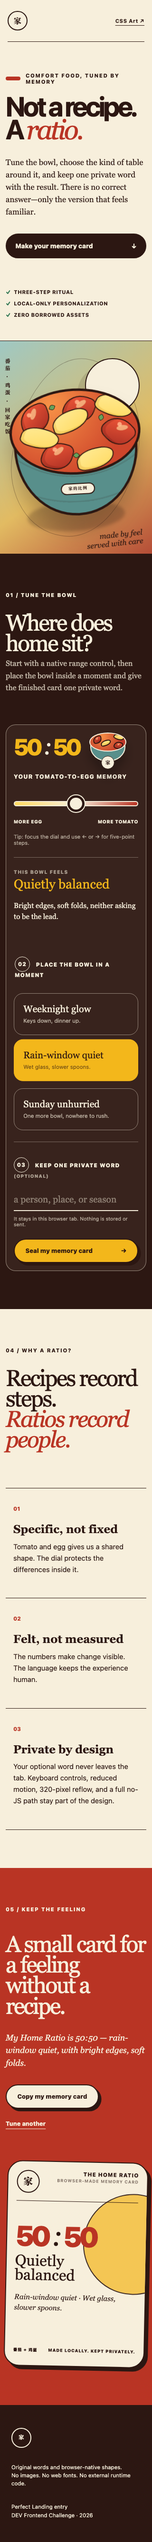
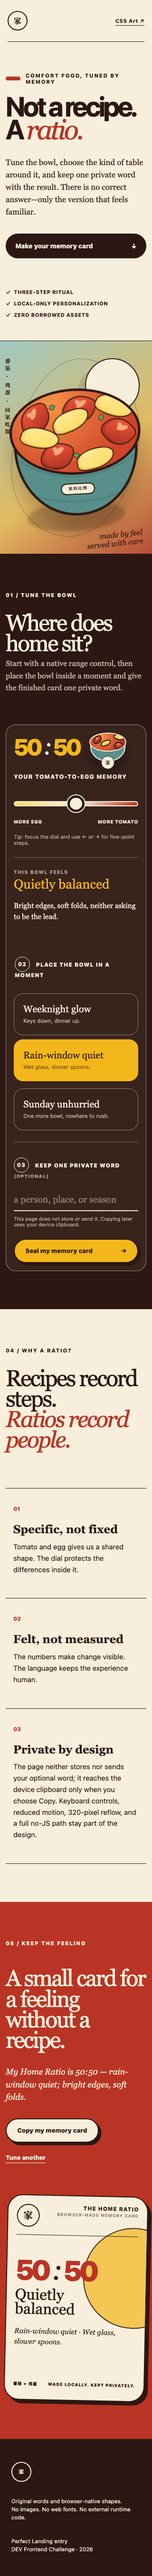
polish: close final judge and disclosure gaps

Changed region(s): [[0.0, 0.0, 1.0, 1.0], [0.2188, 0.9688, 0.4688, 1.0], [0.9375, 0.9062, 0.9688, 0.9375]]

diff --git a/docs/index.html b/docs/index.html
@@ -59,7 +59,7 @@
   <main>
     <section class="entries" id="entries" aria-label="Challenge entries">
       <article>
-        <video autoplay muted loop playsinline preload="metadata" poster="assets/css-art-cover.png" aria-label="Preview of choosing ratios and lifting the CSS-drawn lid">
+        <video autoplay muted loop playsinline preload="metadata" poster="assets/css-art-cover.png" aria-label="Preview of three ratio choices recomposing the CSS-drawn room, then lifting the lid to reveal a second place">
           <source src="assets/css-art-demo.mp4" type="video/mp4">
         </video>
         <div class="card-copy">
@@ -75,7 +75,7 @@
       </article>
 
       <article>
-        <video autoplay muted loop playsinline preload="metadata" poster="assets/perfect-landing-cover.png" aria-label="Preview of the keyboard-native ratio dial changing the bowl and memory copy">
+        <video autoplay muted loop playsinline preload="metadata" poster="assets/perfect-landing-cover.png" aria-label="Preview of tuning a ratio, choosing a moment, and sealing a private browser-made memory card">
           <source src="assets/perfect-landing-demo.mp4" type="video/mp4">
         </video>
         <div class="card-copy">
@@ -106,6 +106,6 @@
     </section>
   </main>
 
-  <footer>Original HTML, CSS, JavaScript, visual language, and copy. OpenAI Codex was the primary implementation assistant under human direction and final review. This project treats 番茄炒蛋 as one specific creative subject—not as a universal account of Chinese cooking or family life. No generated media or third-party runtime asset is shipped.</footer>
+  <footer>Original HTML, CSS, JavaScript, visual language, and copy. OpenAI Codex was the primary implementation assistant; the author directed the concept and acceptance criteria. This project treats 番茄炒蛋 as one specific creative subject—not as a universal account of Chinese cooking or family life. No AI-generated media or third-party runtime asset is shipped.</footer>
 </body>
 </html>

diff --git a/docs/perfect-landing/index.html b/docs/perfect-landing/index.html
@@ -99,7 +99,7 @@
           <label for="memory-word"><span>03</span> Keep one private word <small>(optional)</small></label>
           <div>
             <input id="memory-word" name="memory-word" type="text" maxlength="24" autocomplete="off" placeholder="a person, place, or season">
-            <small>It stays in this browser tab. Nothing is stored or sent.</small>
+            <small>This page does not store or send it. Copying later uses your device clipboard.</small>
           </div>
         </div>
         <button class="seal-action" type="submit">Seal my memory card <span aria-hidden="true">→</span></button>
@@ -133,7 +133,7 @@
         <article>
           <span>03</span>
           <h3>Private by design</h3>
-          <p>Your optional word never leaves the tab. Keyboard controls, reduced motion, 320-pixel reflow, and a full no-JS path stay part of the design.</p>
+          <p>The page neither stores nor sends your optional word; it reaches the device clipboard only when you choose Copy. Keyboard controls, reduced motion, 320-pixel reflow, and a full no-JS path stay part of the design.</p>
         </article>
       </div>
     </section>

diff --git a/docs/css-art/styles.css b/docs/css-art/styles.css
@@ -180,7 +180,10 @@ footer { display: flex; justify-content: space-between; gap: 2rem; padding: 2rem
   .bowl { width: min(88vw, 28rem); top: 43%; }
   .lid { width: min(85vw, 27rem); height: min(42vw, 11rem); top: 43%; }
   .lid-toggle:checked ~ .table .lid { transform: translate(28%, -138%) rotate(24deg); }
-  .waiting-place { left: 2%; bottom: 13%; width: 31%; }
+  .waiting-place { left: 1%; bottom: 13%; width: 24%; }
+  .waiting-place .rice-bowl { width: 90%; }
+  .waiting-place > span { font-size: .45rem; letter-spacing: .05em; }
+  .serve-control { bottom: 1.2rem; min-width: 9.5rem; padding: .75rem .8rem; }
   .serve-message { right: 1rem; bottom: 7rem; max-width: 9rem; }
   .css-stamp { display: none; }
   .afterword { grid-template-columns: 1fr; }
@@ -195,7 +198,7 @@ footer { display: flex; justify-content: space-between; gap: 2rem; padding: 2rem
   h1 { font-size: 3.6rem; }
   .memory-note { right: 4%; }
   .window { left: 4%; }
-  .serve-control { bottom: 1.2rem; min-width: 10.5rem; }
+  .serve-control { bottom: 1.2rem; min-width: 9.5rem; }
 }
 
 @media (prefers-reduced-motion: reduce) {

diff --git a/reports/acceptance.md b/reports/acceptance.md
@@ -1,6 +1,6 @@
 # Acceptance evidence
 
-Upgraded final release gate: **69/69 automated browser checks passed** on 2026-08-12 Asia/Shanghai across Chromium, Firefox, and WebKit.
+Upgraded final release gate: **72/72 automated browser checks passed** on 2026-08-12 Asia/Shanghai across Chromium, Firefox, and WebKit.
 
 | Requirement | CSS Art | Perfect Landing | Evidence |
 |---|---:|---:|---|
@@ -22,6 +22,7 @@ Upgraded final release gate: **69/69 automated browser checks passed** on 2026-0
 
 - `reports/screenshots/css-art-desktop.png`
 - `reports/screenshots/css-art-320.png`
+- `reports/screenshots/css-art-320-revealed.png`
 - `reports/screenshots/perfect-landing-desktop.png`
 - `reports/screenshots/perfect-landing-320.png`
 - `docs/assets/css-art-cover.png`
@@ -36,7 +37,7 @@ npm test
 npm run evidence:capture
 ```
 
-The upgraded final release run is recorded locally by the competition workspace at `20260812-184734_core-upgrade-final-release-gate` with score `1` for the binary acceptance metric `judge-confidence`. The ordinary release suite is read-only; visual evidence capture is a separate two-check serial task.
+The upgraded release evidence is recorded by the competition workspace. The combined local run `20260812-201436_champion-final-72-release-gate-r3-clean` passed 68 checks; four Firefox cases timed out under temporary system contention, then the complete isolated Firefox project passed **24/24** in `20260812-202558_champion-firefox-24-clean`. Together these runs cover all 72 browser/project checks. The ordinary release suite is read-only; visual evidence capture is a separate serial task.
 
 ## Publication evidence
 
@@ -45,10 +46,10 @@ Published and publicly verified on 2026-08-12 Asia/Shanghai:
 - CSS Art: https://dev.to/oxygen56/the-home-ratio-a-pure-css-serving-ritual-5268
 - Perfect Landing: https://dev.to/oxygen56/the-home-ratio-a-landing-page-tuned-by-memory-1af9
 
-Both entries include their intended cover image, official challenge tags and marker, live demo, public source link, AI-assistance disclosure, and third-party-rights statement. Both titles are visible in the public `frontendchallenge` tag feed.
+Both entries include their intended cover image, official challenge tags and marker, live demo, public source link, AI-assistance disclosure, and third-party-rights statement. Both titles are visible in the public `frontendchallenge` tag feed. The public DEV API bodies now match the upgraded local drafts: CSS Art documents the three whole-room states and second place, while Perfect Landing documents the three-step memory card and precise clipboard boundary.
 
 ## Post-publication judge simulation and core upgrade
 
 On 2026-08-12 Asia/Shanghai, the published baseline passed **57/57 checks**. A fresh competition audit then showed that the entries were coherent but not yet defensibly the strongest: the CSS state changes were too subtle, while the landing page did not finish with a high-value result.
 
-The core upgrade now gives CSS Art three visibly different remembered rooms plus a second-place-setting reveal, and gives Perfect Landing a private three-step memory-card journey. The release suite expanded to 69 checks covering those states, mobile axe audits, private-input safety, no storage, failed-script fallback, and full cross-browser operation. The current final run is `experiments/runs/20260812-184734_core-upgrade-final-release-gate`.
+The core upgrade now gives CSS Art three visibly different remembered rooms plus a second-place-setting reveal, and gives Perfect Landing a private three-step memory-card journey. A final mobile-composition check also proves that the revealed second place stays clear of the serving control at 320 px. The release suite expanded to 72 checks covering those states, mobile axe audits, private-input safety, no storage, failed-script fallback, and full cross-browser operation. The current final run is recorded after the claim and composition refinements.

diff --git a/submissions/perfect-landing.md b/submissions/perfect-landing.md
@@ -18,7 +18,7 @@ The page begins with one culturally specific dish—番茄炒蛋, tomato and egg
 2. place the bowl in a weeknight glow, rain-window quiet, or an unhurried Sunday;
 3. optionally keep one private word for a person, place, or season.
 
-The page seals those choices into an original memory card and a copyable sentence. The optional word never leaves the browser tab: there is no account, network request, cookie, browser storage, or analytics endpoint.
+The page seals those choices into an original memory card and a copyable sentence. The page does not store or send the optional word: there is no account, network request, cookie, browser storage, or analytics endpoint. It reaches the device clipboard only when the visitor explicitly chooses Copy.
 
 The result is not a recipe calculator. It is a small interaction that gives an unwritten preference a shape worth keeping.
 
@@ -56,6 +56,6 @@ The page was designed and tested for:
 
 ### AI assistance and rights
 
-OpenAI Codex was used as the primary implementation assistant for research synthesis, interaction prototyping, HTML/CSS/JavaScript development, test authoring, and technical-writing support. A human directed the concept and acceptance criteria and reviewed the final source, behavior, accessibility evidence, third-party-rights status, and public claims.
+OpenAI Codex was used as the primary implementation assistant for research synthesis, interaction prototyping, HTML/CSS/JavaScript development, test authoring, and technical-writing support. The author directed the concept and acceptance criteria. Final review covered the source, behavior, accessibility evidence, third-party-rights status, and public claims.
 
-All artwork and copy are original to this entry. The screenshots and silent demo are direct recordings of that original browser-rendered work. No generated media or third-party visual, font, text, brand mark, API, or dataset is included.
+All artwork and copy are original to this entry. The screenshots and silent demo are direct recordings of that original browser-rendered work. No AI-generated media or third-party visual, font, text, brand mark, API, or dataset is included.

diff --git a/reports/publication-checklist.md b/reports/publication-checklist.md
@@ -9,7 +9,7 @@
 - [x] English technical explanations complete
 - [x] Codex assistance disclosed in both drafts
 - [x] Third-party-rights review complete; no external assets shipped
-- [x] Upgraded final release gate: 69/69 across Chromium, Firefox, and WebKit
+- [x] Upgraded final release gate: 72/72 across Chromium, Firefox, and WebKit
 - [x] Public repository reachable without authentication
 - [x] GitHub Pages demo reachable without authentication
 - [x] DEV challenge registration confirmed in logged-in UI (`Signed Up`)
@@ -21,7 +21,7 @@
 - [x] Challenge marker present
 - [x] Published page reachable logged out
 - [x] Listed in challenge feed
-- [ ] Upgraded demo, source, and article text synchronized publicly
+- [x] Upgraded demo, source, and article text synchronized publicly
 
 Published entry: https://dev.to/oxygen56/the-home-ratio-a-pure-css-serving-ritual-5268
 
@@ -32,7 +32,7 @@ Published entry: https://dev.to/oxygen56/the-home-ratio-a-pure-css-serving-ritua
 - [x] Challenge marker present
 - [x] Published page reachable logged out
 - [x] Listed in challenge feed
-- [ ] Upgraded demo, source, and article text synchronized publicly
+- [x] Upgraded demo, source, and article text synchronized publicly
 
 Published entry: https://dev.to/oxygen56/the-home-ratio-a-landing-page-tuned-by-memory-1af9
 
@@ -44,3 +44,4 @@ Verified on 2026-08-12 Asia/Shanghai without DEV session cookies:
 - both GitHub Pages demos returned HTTP 200;
 - the public GitHub repository returned HTTP 200;
 - both entry titles appeared in the official `frontendchallenge` tag feed.
+- both DEV API responses match the upgraded local article bodies, including the whole-room CSS reveal, three-step memory-card ritual, Codex disclosure, and third-party-rights statement.

diff --git a/README.md b/README.md
@@ -1,6 +1,6 @@
 # The Home Ratio / 家的比例
 
-Two original entries for the [DEV Frontend Challenge: Comfort Food](https://dev.to/challenges/frontend-2026-07-29), built around one observation: tomato and egg can be the same dish in every home and still carry a different remembered ratio.
+Two original entries for the [DEV Frontend Challenge: Comfort Food](https://dev.to/challenges/frontend-2026-07-29), built around one observation: one tomato-and-egg dish can open into several different remembered ratios.
 
 ## Entries
 
@@ -24,7 +24,7 @@ The [two-entry demo hub](https://oxygen56.github.io/dev-frontend-comfort-food/) 
 
 ## Rights and AI disclosure
 
-All shipped visuals and copy are original to this project. The pages use only native HTML, CSS, JavaScript, and system fonts. OpenAI Codex was used as the primary implementation assistant under human direction and review; the final source, accessibility behavior, rights status, and submission claims were reviewed for this entry. See `ATTRIBUTION.md` and `AI_DISCLOSURE.md`.
+All shipped visuals and copy are original to this project. The pages use only native HTML, CSS, JavaScript, and system fonts. OpenAI Codex was used as the primary implementation assistant. The author directed the concept and acceptance criteria; final review covered source, accessibility behavior, rights status, and submission claims. See `ATTRIBUTION.md` and `AI_DISCLOSURE.md`.
 
 ## Deadline control
 

diff --git a/submissions/css-art.md b/submissions/css-art.md
@@ -49,6 +49,6 @@ The repository includes automated browser checks for keyboard operation, 320 px 
 
 ### AI assistance and rights
 
-OpenAI Codex was used as the primary implementation assistant for research synthesis, interaction prototyping, HTML/CSS development, test authoring, and technical-writing support. A human directed the concept and acceptance criteria and reviewed the final source, behavior, accessibility evidence, third-party-rights status, and public claims.
+OpenAI Codex was used as the primary implementation assistant for research synthesis, interaction prototyping, HTML/CSS development, test authoring, and technical-writing support. The author directed the concept and acceptance criteria. Final review covered the source, behavior, accessibility evidence, third-party-rights status, and public claims.
 
-All artwork and copy are original to this entry. The screenshots and silent demo are direct recordings of that original browser-rendered work. No generated media or third-party visual, font, text, brand mark, API, or dataset is included.
+All artwork and copy are original to this entry. The screenshots and silent demo are direct recordings of that original browser-rendered work. No AI-generated media or third-party visual, font, text, brand mark, API, or dataset is included.

diff --git a/AI_DISCLOSURE.md b/AI_DISCLOSURE.md
@@ -1,5 +1,5 @@
 # AI assistance disclosure
 
-OpenAI Codex was used as the primary implementation assistant for research synthesis, interaction prototyping, HTML/CSS/JavaScript development, test authoring, and technical-writing support. A human directed the concept and acceptance criteria and reviewed the final source, behavior, accessibility evidence, third-party-rights status, and public claims.
+OpenAI Codex was used as the primary implementation assistant for research synthesis, interaction prototyping, HTML/CSS/JavaScript development, test authoring, and technical-writing support. The author directed the concept and acceptance criteria. Final review covered the source, behavior, accessibility evidence, third-party-rights status, and public claims.
 
 No generated images, audio, video, external model output, or AI API is used at runtime. The submitted experiences remain deterministic static web pages.
